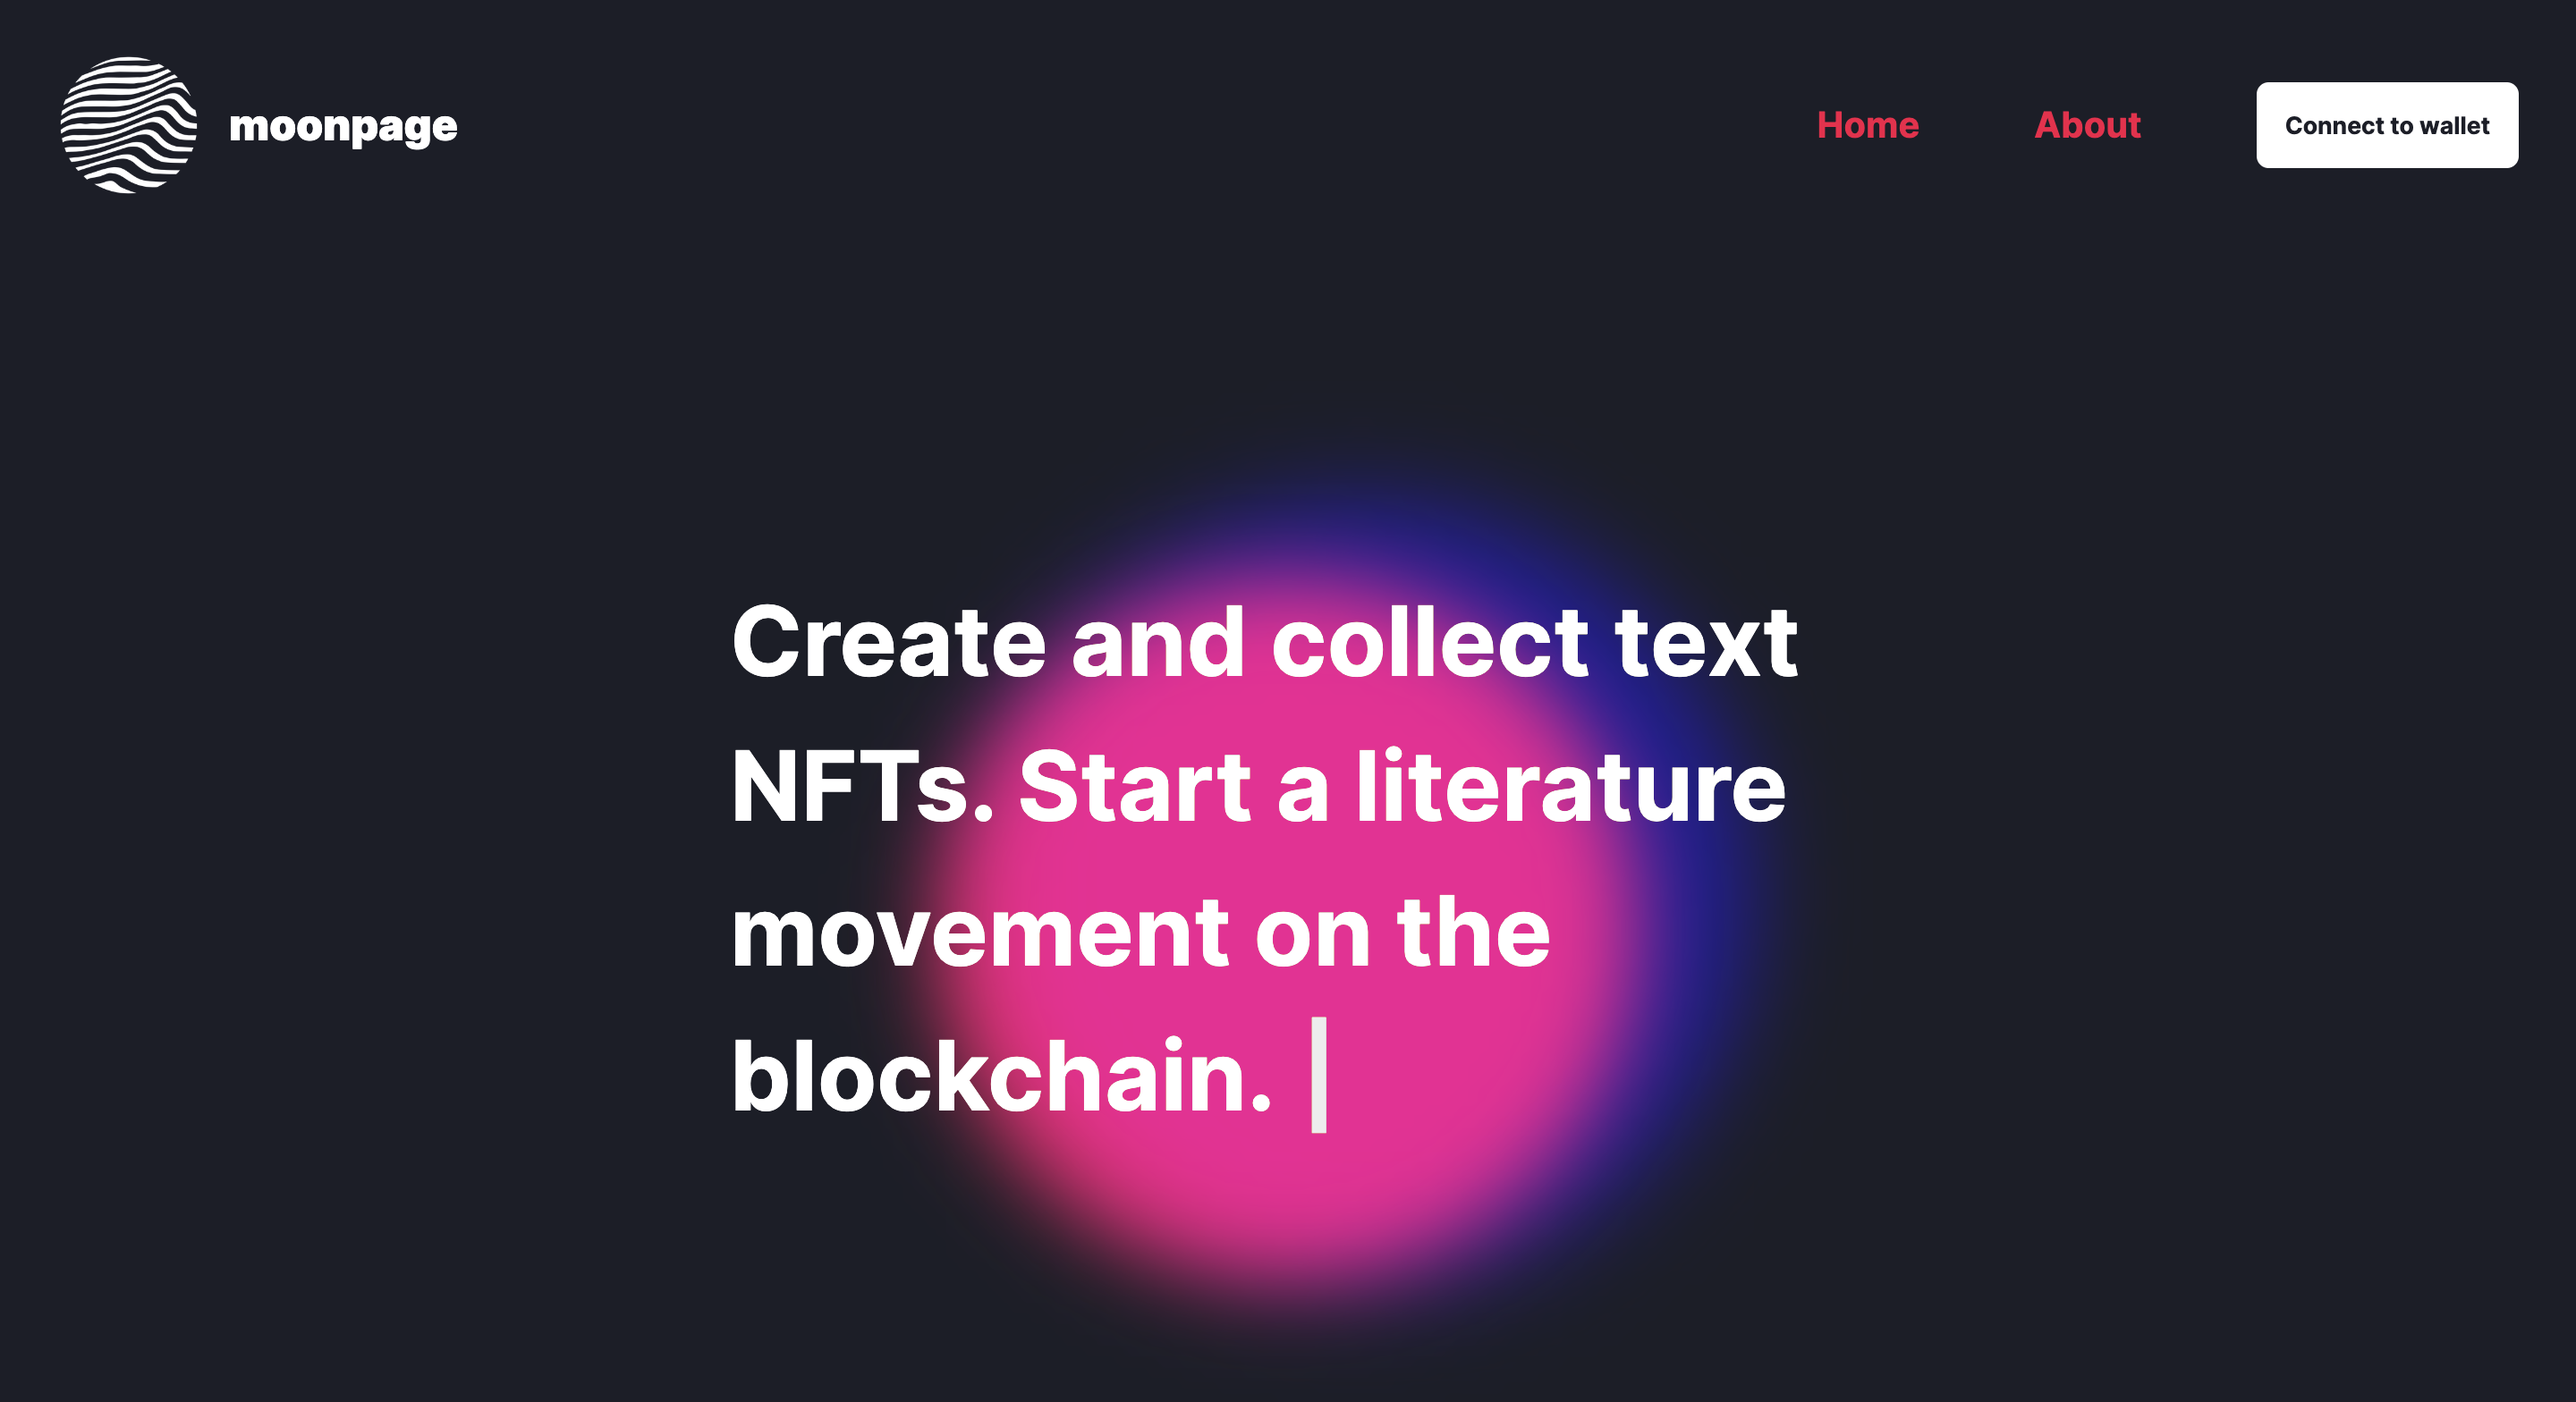
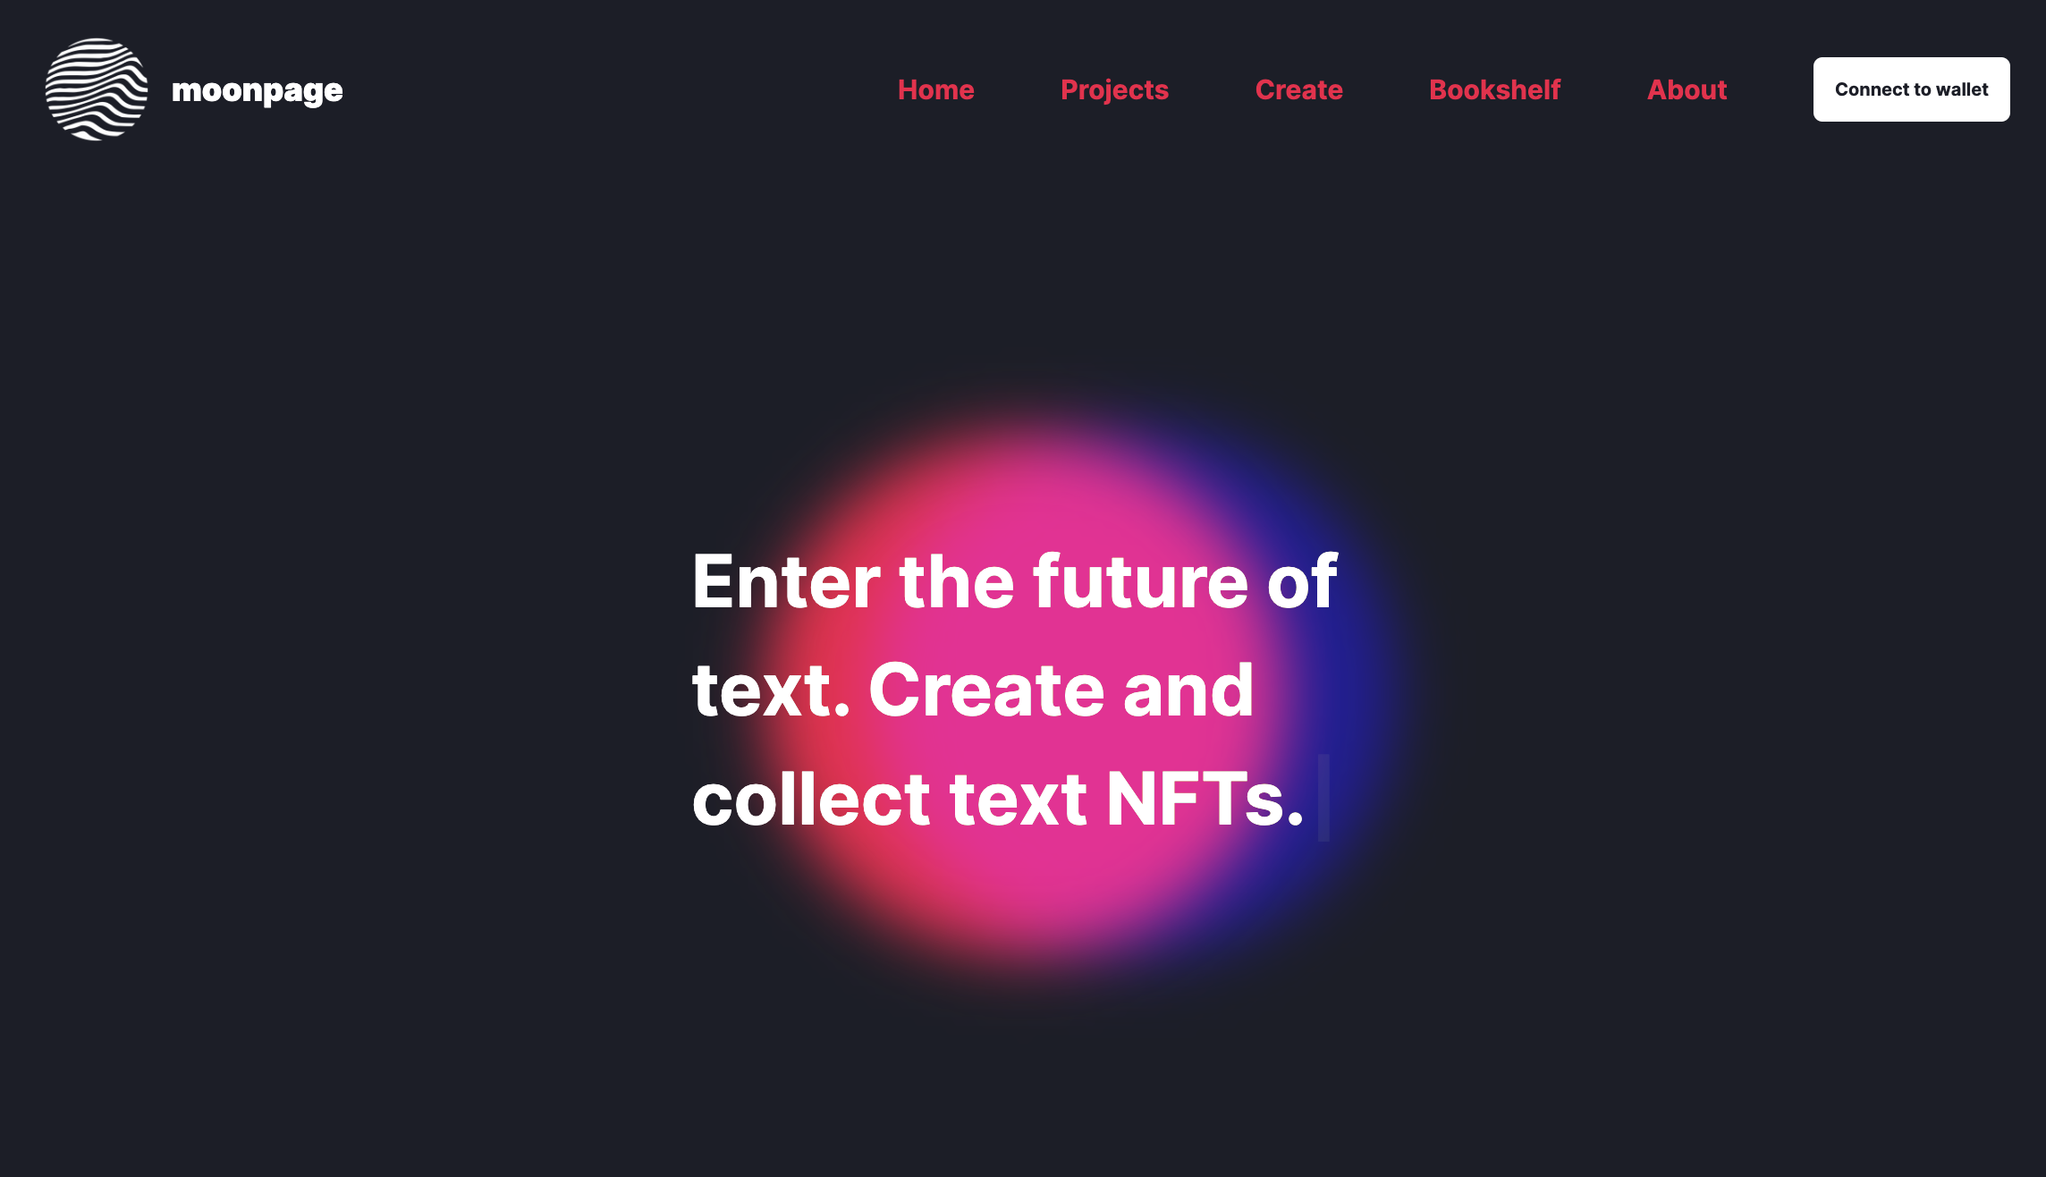
feat: (ui) change start animation text

diff --git a/apps/ui/components/StartAnimation.tsx b/apps/ui/components/StartAnimation.tsx
@@ -19,11 +19,12 @@ const Root = styled.div`
 
 const TypeWriterWrapper = styled.div`
   height: 100%;
-  min-height: 500px;
-  max-width: 600px;
+  max-width: 500px;
+  display: flex;
+  align-items: center;
 
   @media (max-width: 900px) {
-    min-height: 440px;
+    min-height: 300px;
   }
 `;
 
@@ -51,9 +52,7 @@ const StartAnimation = () => {
       <TypeWriterWrapper>
         {shouldStart && (
           <TypeWriter
-            text={
-              'Create and collect text NFTs. Start a literature movement on the blockchain. '
-            }
+            text={'Enter the future of text. Create and collect text NFTs.'}
             shouldErase={false}
             shouldLoop={false}
           />

diff --git a/apps/ui/pages/_app.tsx b/apps/ui/pages/_app.tsx
@@ -90,7 +90,7 @@ function CustomApp({ Component, pageProps }: AppProps) {
         <meta property="og:title" content="Text NFTs" />
         <meta
           property="og:description"
-          content="Create and collect text NFTs. Start a literature movement on the blockchain. "
+          content="Enter the future of text. Create and collect text NFTs. "
         />
         <meta
           property="og:image"
